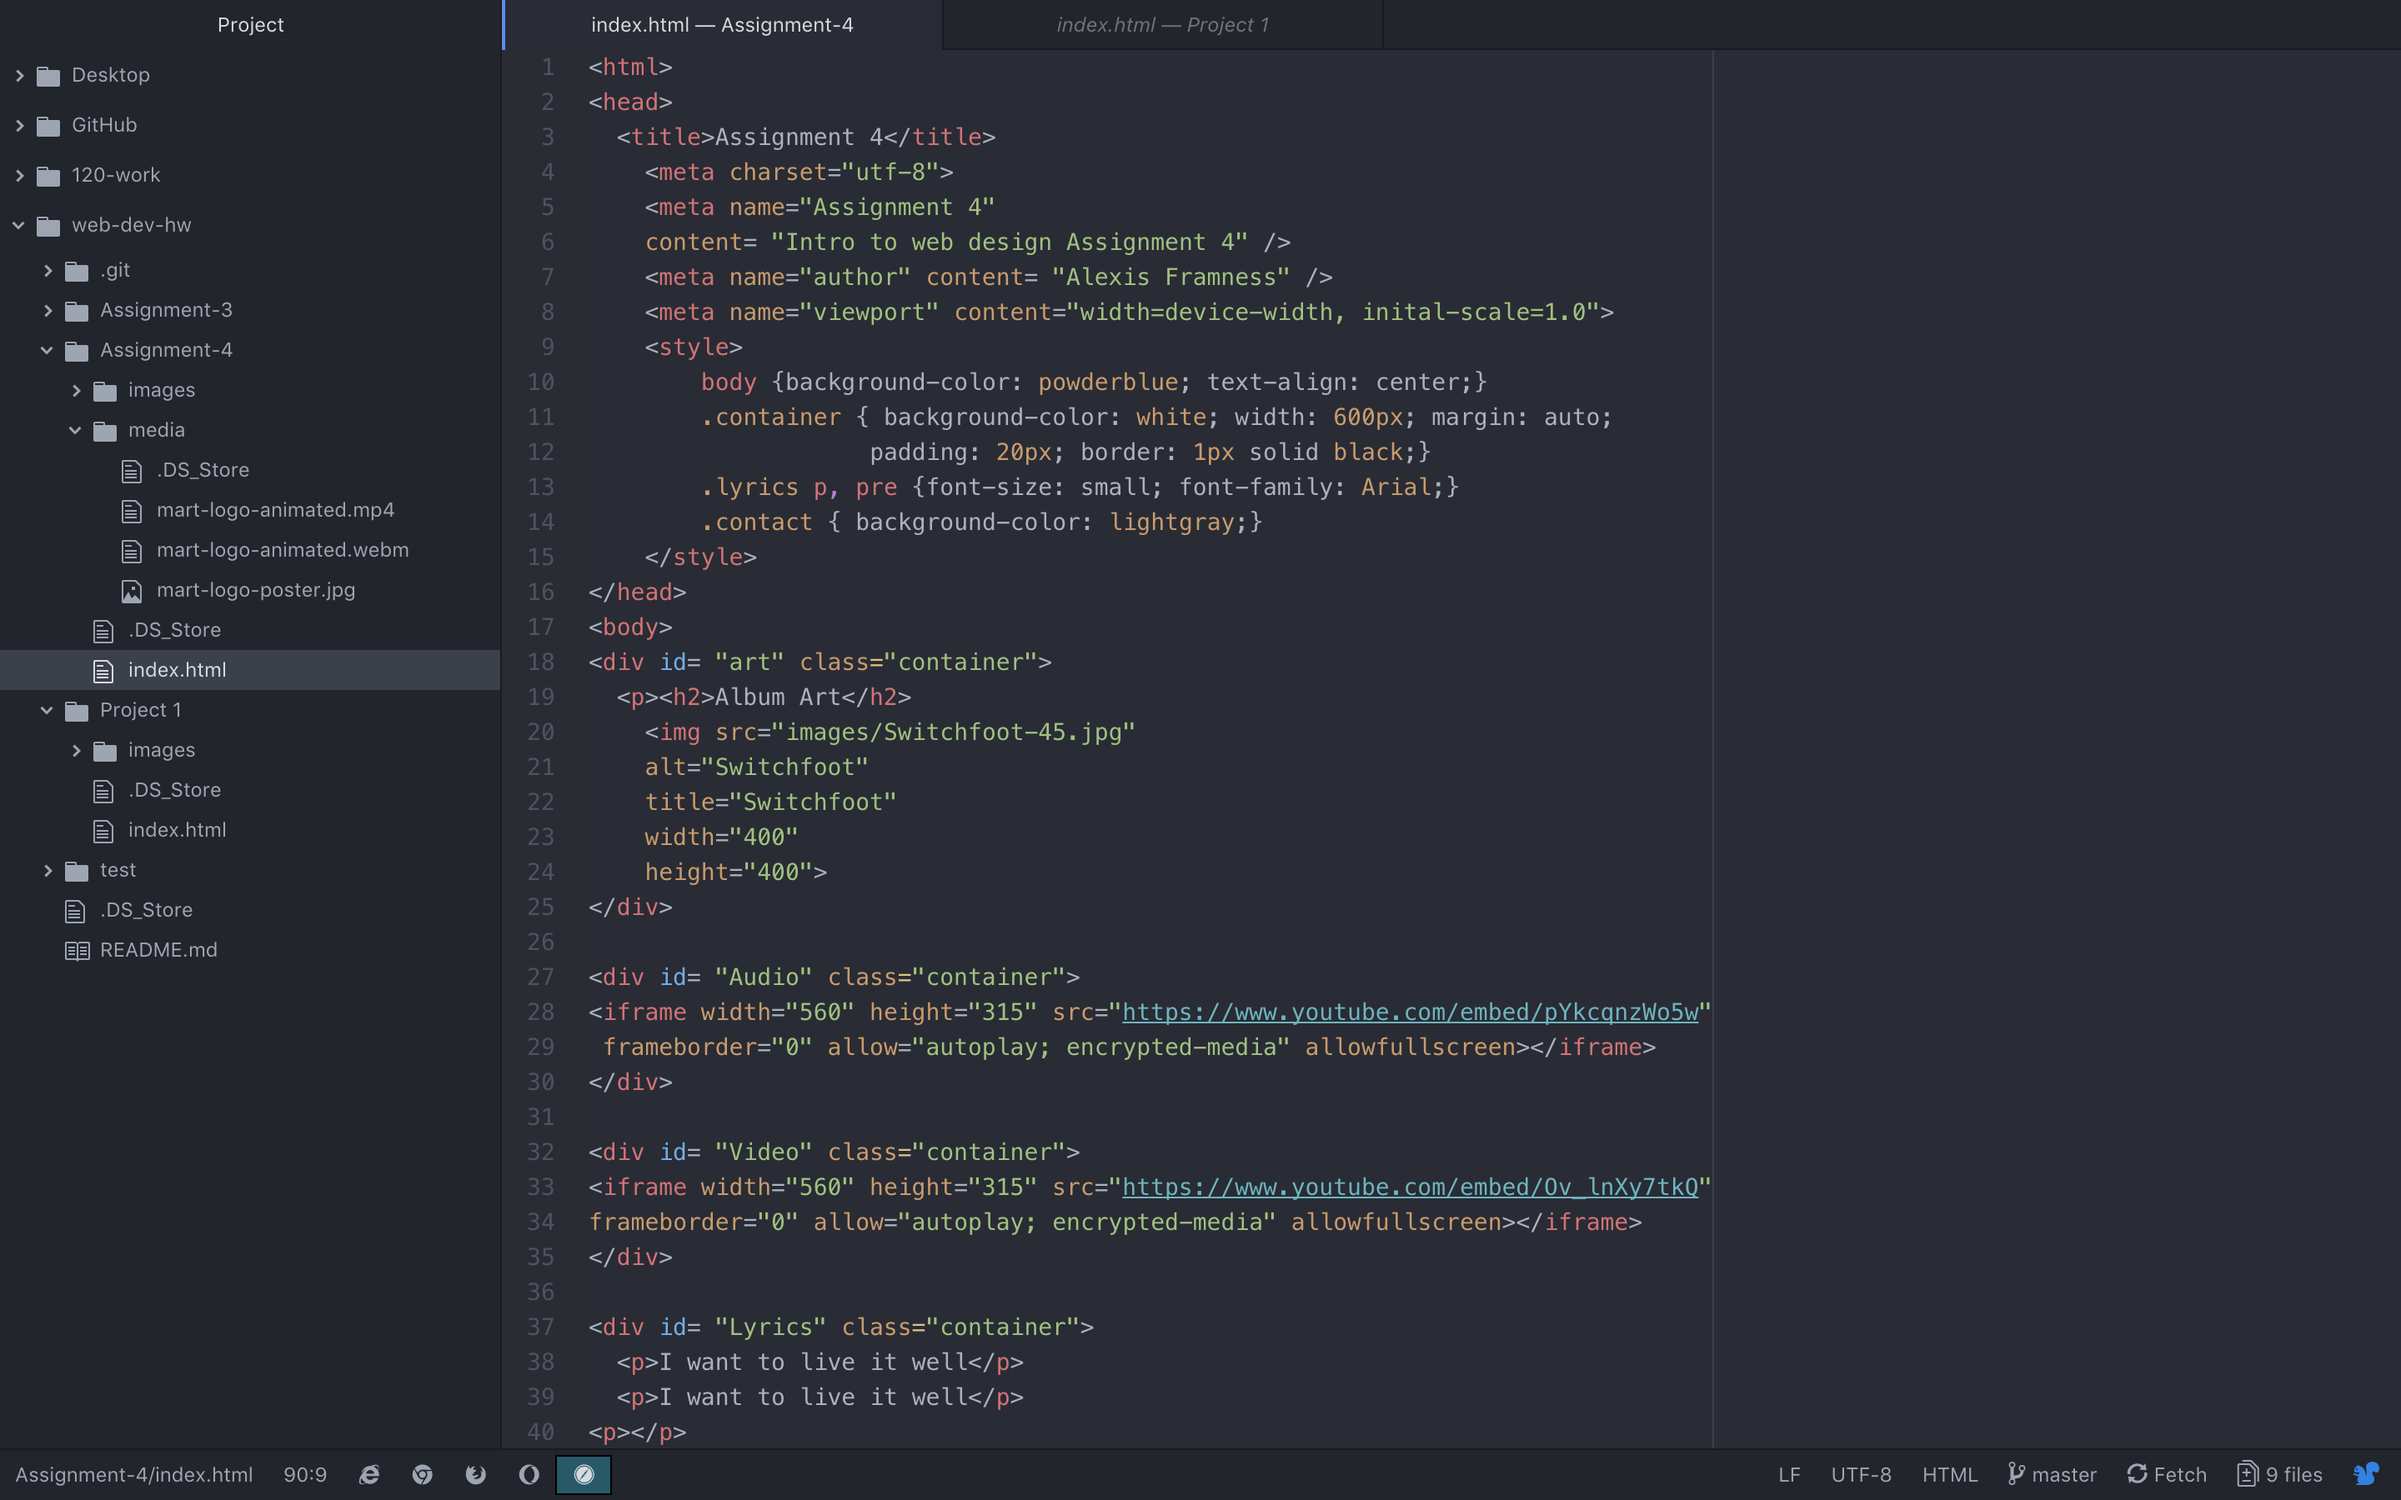
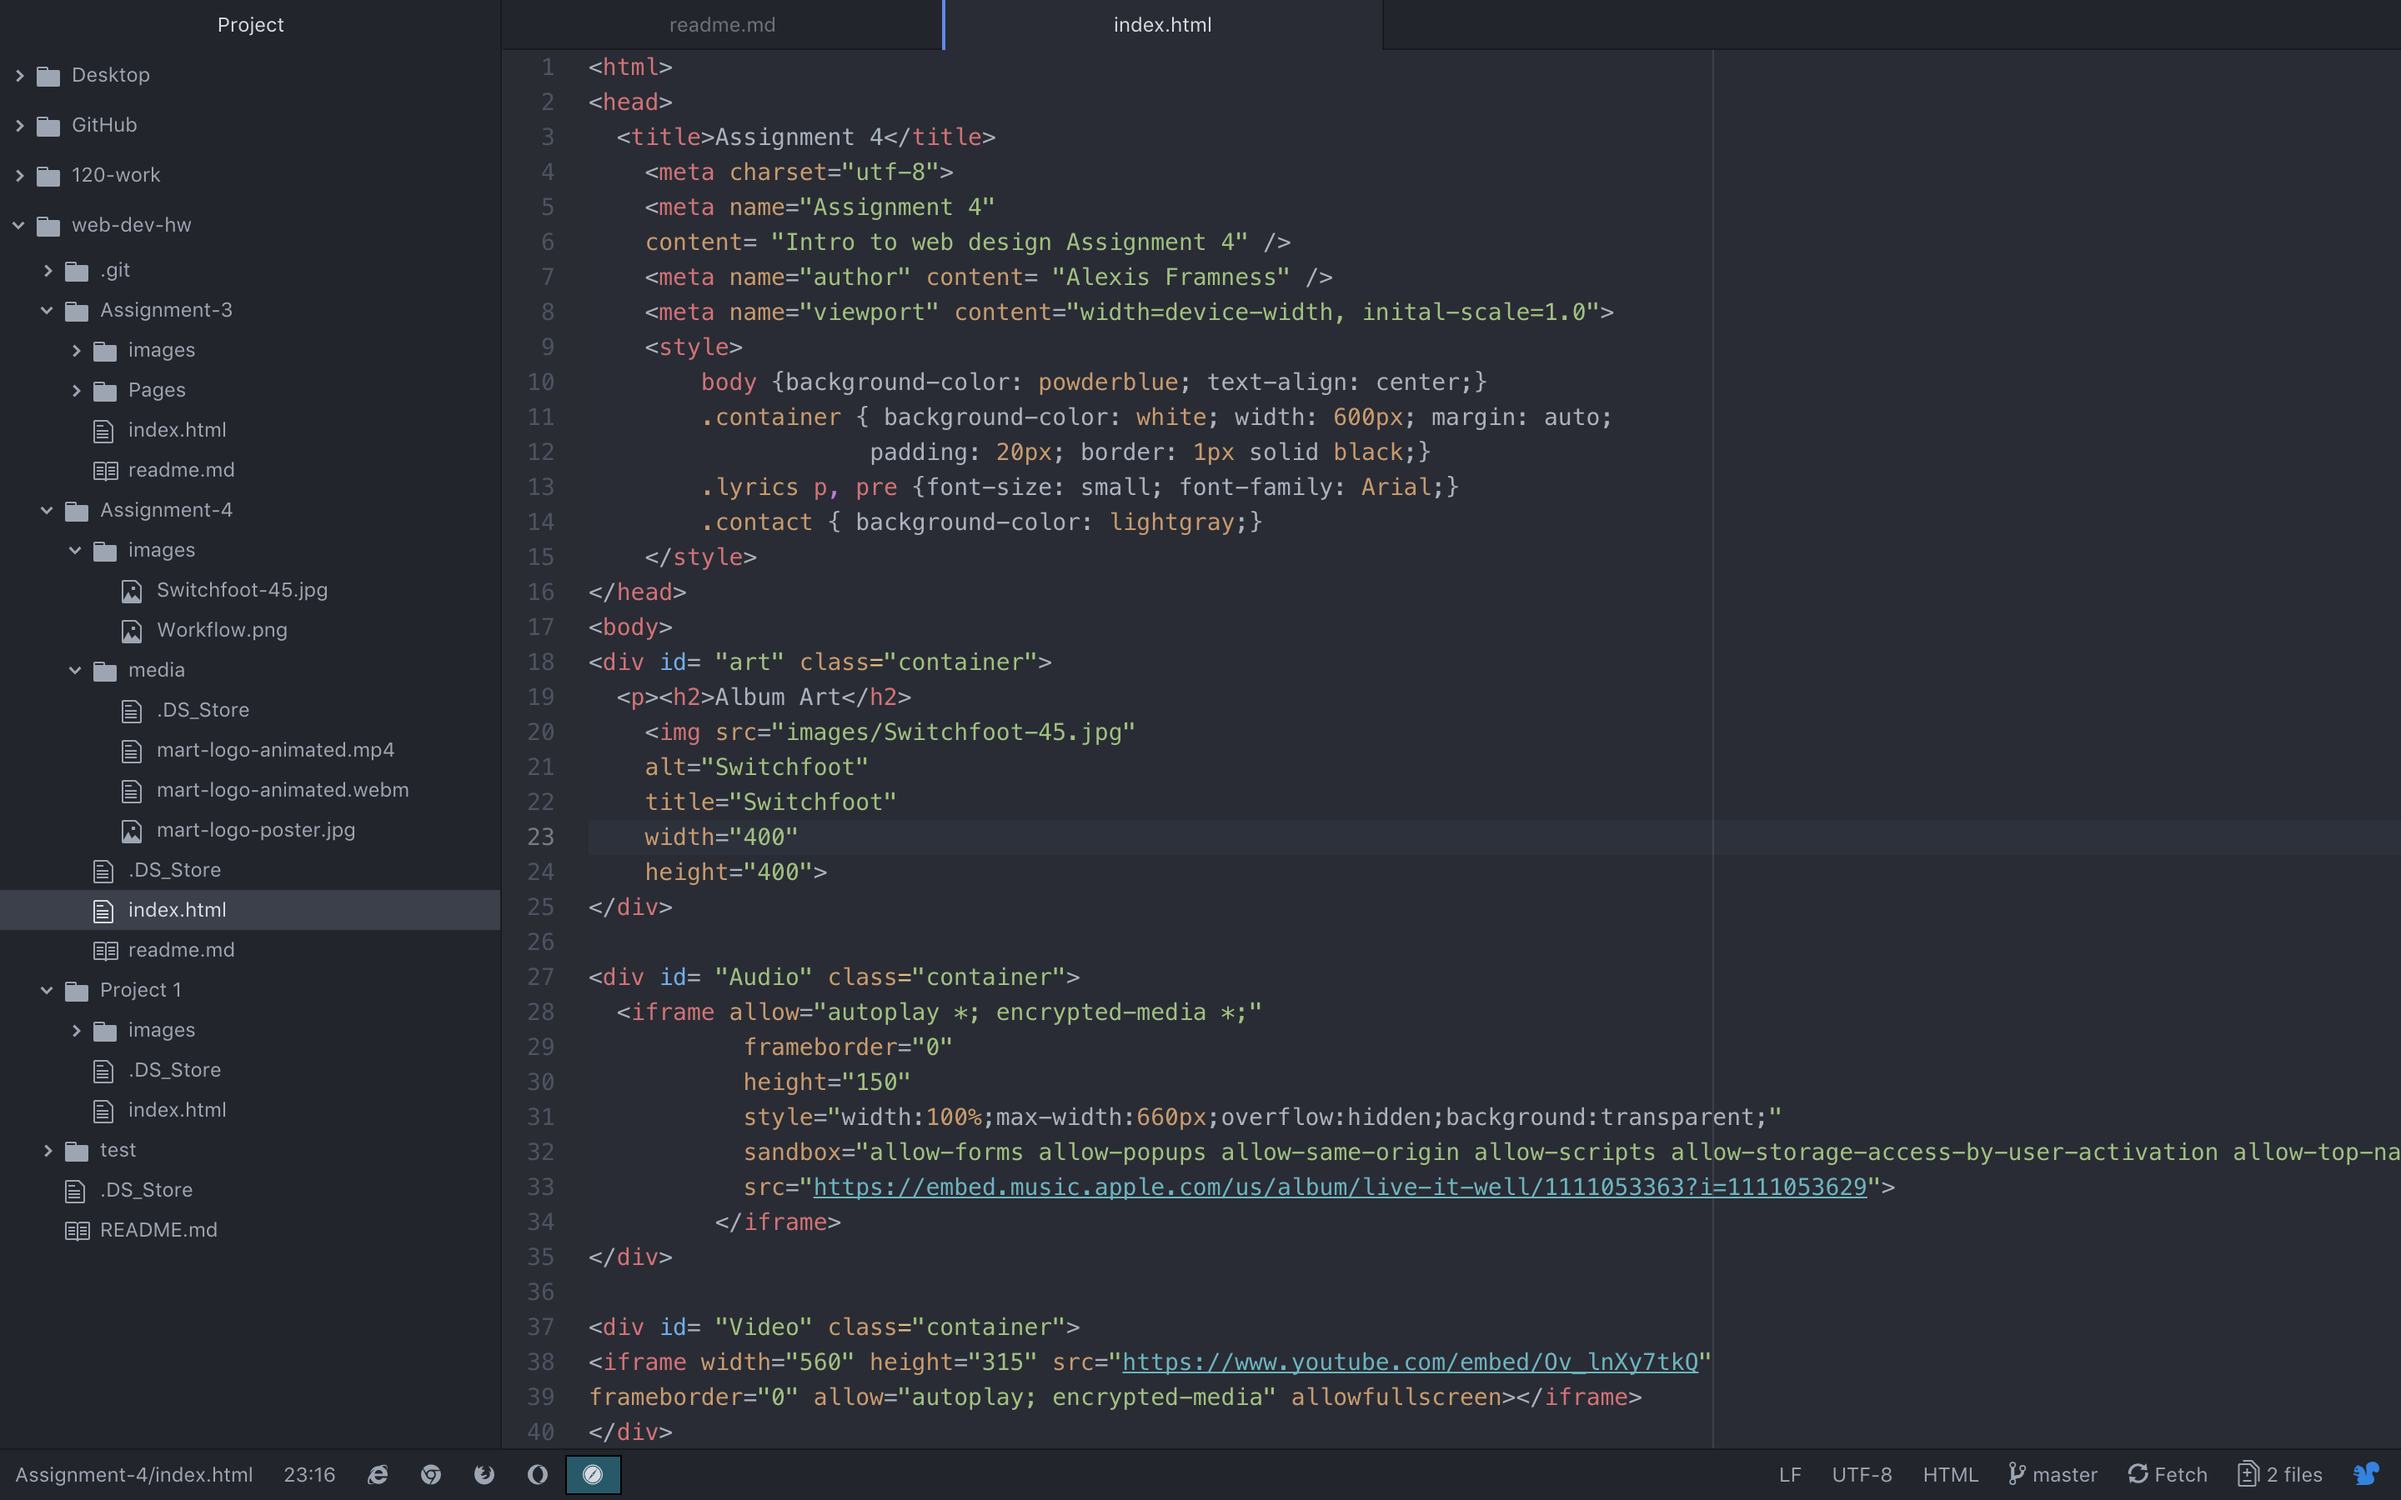
update

diff --git a/Assignment-4/index.html b/Assignment-4/index.html
@@ -25,8 +25,13 @@
 </div>
 
 <div id= "Audio" class="container">
-<iframe width="560" height="315" src="https://www.youtube.com/embed/pYkcqnzWo5w"
- frameborder="0" allow="autoplay; encrypted-media" allowfullscreen></iframe>
+  <iframe allow="autoplay *; encrypted-media *;"
+           frameborder="0"
+           height="150"
+           style="width:100%;max-width:660px;overflow:hidden;background:transparent;"
+           sandbox="allow-forms allow-popups allow-same-origin allow-scripts allow-storage-access-by-user-activation allow-top-navigation-by-user-activation"
+           src="https://embed.music.apple.com/us/album/live-it-well/1111053363?i=1111053629">
+         </iframe>
 </div>
 
 <div id= "Video" class="container">

diff --git a/Assignment-4/readme.md b/Assignment-4/readme.md
@@ -3,7 +3,7 @@
 <h2>Questions</h2>
 
 ## Briefly describe the difference between divs, classes, ids, and spans.
-Ids are a global identifier and should be unique. Divs allows the developer to group elements together. Class is another identifier used for HTML, and can be used grouped elements together.
+Ids are a global identifier and should be unique. Divs allows the developer to group elements together. Class is another identifier used for HTML without a CSS, and can be used grouped elements together. Spans name div elements.
 ## What is "alt text," and why do we use it?
 Describes images to someone who can't see the image. It also helps if show is a link is moved or broken.
 ## Summarize work cycle.
